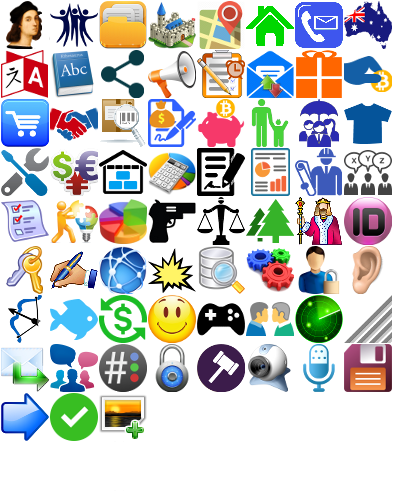
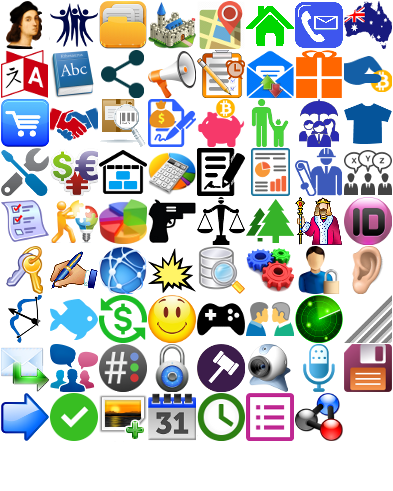
version 0.57 alpha

Changed region(s): [[0.3664, 0.7943, 0.8855, 0.9165]]

diff --git a/pandora.rb b/pandora.rb
@@ -10612,13 +10612,19 @@ module PandoraGtk
     end
   end
 
-  def self.set_button_text(btn, text)
+  def self.set_button_text(btn, text=nil)
     alig = btn.children[0]
     if alig.is_a? Gtk::Bin
       hbox = alig.child
       if (hbox.is_a? Gtk::Box) and (hbox.children.size>1)
         lab = hbox.children[1]
-        lab.text = text if lab.is_a? Gtk::Label
+        if lab.is_a? Gtk::Label
+          if text.nil?
+            lab.destroy
+          else
+            lab.text = text
+          end
+        end
       end
     end
   end
@@ -10814,12 +10820,31 @@ module PandoraGtk
   class BtnEntry < Gtk::HBox
     attr_accessor :entry, :button, :close_on_enter
 
-    def initialize(entry_class, popup=true, *args)
+    def initialize(entry_class, stock=nil, tooltip=nil, *args)
       super(*args)
       @close_on_enter = true
       @entry = entry_class.new
+      stock ||= :list
 
-      @button = Gtk::Button.new('...')
+      $window.register_stock(stock)
+      @button = Gtk::Button.new(stock)
+      PandoraGtk.set_button_text(@button)
+
+      #@button = GoodButton.new(stock, nil, nil) do
+      #  do_on_click
+      #end
+
+      #@button = Gtk::ToolButton.new(:date)
+      #buf = $window.get_icon_scale_buf(stock.to_s, 'pan', 15)
+      #aimage = Gtk::Image.new(buf)
+      #@button = Gtk::ToolButton.new(aimage, nil)
+
+      tooltip ||= stock.to_s.capitalize
+      @button.tooltip_text = _(tooltip)
+      @button.signal_connect('clicked') do |*args|
+        do_on_click
+      end
+
       @button.can_focus = false
 
       @entry.instance_variable_set('@button', @button)
@@ -10838,73 +10863,72 @@ module PandoraGtk
       esize = entry.size_request
       h = esize[1]-2
       @button.set_size_request(h, h)
+    end
 
-      if popup
-        button.signal_connect('clicked') do |*args|
-          @entry.grab_focus
-          if @popwin and (not @popwin.destroyed?)
-            @popwin.destroy
-            @popwin = nil
-          else
-            @popwin = Gtk::Window.new #(Gtk::Window::POPUP)
-            popwin = @popwin
-            popwin.transient_for = $window
-            popwin.modal = true
-            popwin.decorated = false
-            popwin.skip_taskbar_hint = true
+    def do_on_click
+      res = false
+      @entry.grab_focus
+      if @popwin and (not @popwin.destroyed?)
+        @popwin.destroy
+        @popwin = nil
+      else
+        @popwin = Gtk::Window.new #(Gtk::Window::POPUP)
+        popwin = @popwin
+        popwin.transient_for = $window
+        popwin.modal = true
+        popwin.decorated = false
+        popwin.skip_taskbar_hint = true
 
-            popwidget = get_popwidget
-            popwin.add(popwidget)
-            popwin.signal_connect('delete_event') { @popwin.destroy; @popwin=nil }
+        popwidget = get_popwidget
+        popwin.add(popwidget)
+        popwin.signal_connect('delete_event') { @popwin.destroy; @popwin=nil }
 
-            popwin.signal_connect('focus-out-event') do |win, event|
-              GLib::Timeout.add(100) do
-                if not popwin.destroyed?
-                  @popwin.destroy
-                  @popwin = nil
-                end
-                false
-              end
-              false
+        popwin.signal_connect('focus-out-event') do |win, event|
+          GLib::Timeout.add(100) do
+            if not popwin.destroyed?
+              @popwin.destroy
+              @popwin = nil
             end
-
-            popwin.signal_connect('key-press-event') do |widget, event|
-              if [Gdk::Keyval::GDK_Return, Gdk::Keyval::GDK_KP_Enter].include?(event.keyval)
-                if @close_on_enter
-                  @popwin.destroy
-                  @popwin = nil
-                end
-                false
-              elsif (event.keyval==Gdk::Keyval::GDK_Escape) or \
-                ([Gdk::Keyval::GDK_w, Gdk::Keyval::GDK_W, 1731, 1763].include?(\
-                event.keyval) and event.state.control_mask?) #w, W, ц, Ц
-              then
-                @popwin.destroy
-                @popwin = nil
-                false
-              elsif ([Gdk::Keyval::GDK_x, Gdk::Keyval::GDK_X, 1758, 1790].include?( \
-                event.keyval) and event.state.mod1_mask?) or ([Gdk::Keyval::GDK_q, \
-                Gdk::Keyval::GDK_Q, 1738, 1770].include?(event.keyval) \
-                and event.state.control_mask?) #q, Q, й, Й
-              then
-                @popwin.destroy
-                @popwin = nil
-                $window.do_menu_act('Quit')
-                false
-              else
-                false
-              end
-            end
-
-            pos = @entry.window.origin
-            all = @entry.allocation.to_a
-            popwin.move(pos[0], pos[1]+all[3]+1)
-
-            popwin.show_all
+            false
           end
           false
         end
+
+        popwin.signal_connect('key-press-event') do |widget, event|
+          if [Gdk::Keyval::GDK_Return, Gdk::Keyval::GDK_KP_Enter].include?(event.keyval)
+            if @close_on_enter
+              @popwin.destroy
+              @popwin = nil
+            end
+            false
+          elsif (event.keyval==Gdk::Keyval::GDK_Escape) or \
+            ([Gdk::Keyval::GDK_w, Gdk::Keyval::GDK_W, 1731, 1763].include?(\
+            event.keyval) and event.state.control_mask?) #w, W, ц, Ц
+          then
+            @popwin.destroy
+            @popwin = nil
+            false
+          elsif ([Gdk::Keyval::GDK_x, Gdk::Keyval::GDK_X, 1758, 1790].include?( \
+            event.keyval) and event.state.mod1_mask?) or ([Gdk::Keyval::GDK_q, \
+            Gdk::Keyval::GDK_Q, 1738, 1770].include?(event.keyval) \
+            and event.state.control_mask?) #q, Q, й, Й
+          then
+            @popwin.destroy
+            @popwin = nil
+            $window.do_menu_act('Quit')
+            false
+          else
+            false
+          end
+        end
+
+        pos = @entry.window.origin
+        all = @entry.allocation.to_a
+        popwin.move(pos[0], pos[1]+all[3]+1)
+
+        popwin.show_all
       end
+      res
     end
 
     def get_popwidget   # Example widget
@@ -11211,12 +11235,11 @@ module PandoraGtk
     attr_accessor :cal
 
     def initialize(*args)
-      super(MaskEntry, true, *args)
+      super(MaskEntry, :date, 'Date', *args)
       @close_on_enter = false
       @entry.mask = '0123456789.'
       @entry.max_length = 10
       @entry.tooltip_text = 'DD.MM.YYYY'
-      @button.label = 'D'
     end
 
     def update_mark(month, year, time_now=nil)
@@ -11323,11 +11346,10 @@ module PandoraGtk
     attr_accessor :hh_spin, :mm_spin, :ss_spin
 
     def initialize(*args)
-      super(MaskEntry, true, *args)
+      super(MaskEntry, :time, 'Time', *args)
       @entry.mask = '0123456789:'
       @entry.max_length = 8
       @entry.tooltip_text = 'hh:mm:ss'
-      @button.label = 'T'
     end
 
     def get_time(update_spin=nil)
@@ -11445,13 +11467,12 @@ module PandoraGtk
   class ByteListEntry < BtnEntry
 
     def initialize(code_name_list, *args)
-      super(MaskEntry, true, *args)
+      super(MaskEntry, :list, 'List', *args)
       @close_on_enter = false
       @code_name_list = code_name_list
       @entry.mask = '0123456789'
       @entry.max_length = 3
       @entry.tooltip_text = 'NNN'
-      @button.label = 'L'
     end
 
     def get_popwidget
@@ -11553,53 +11574,53 @@ module PandoraGtk
     attr_accessor :types, :panclasses
 
     def initialize(panhash_type, *args)
-      super(HexEntry, false, *args)
+      super(HexEntry, :panhash, 'Panhash', *args)
       @types = panhash_type
+    end
 
-      @button.signal_connect('clicked') do |*args|
-        @entry.grab_focus
-        set_classes
-        dialog = PandoraGtk::AdvancedDialog.new(_('Choose object'))
-        dialog.skip_taskbar_hint = true
-        dialog.set_default_size(600, 400)
-        auto_create = true
-        panclasses.each_with_index do |panclass, i|
-          title = _(PandoraUtils.get_name_or_names(panclass.name, true))
-          dialog.main_sw.destroy if i==0
-          image = Gtk::Image.new(Gtk::Stock::INDEX, Gtk::IconSize::MENU)
-          image.set_padding(2, 0)
-          label_box2 = TabLabelBox.new(image, title, nil, false, 0)
-          pbox = PandoraGtk::PanobjScrolledWindow.new
-          page = dialog.notebook.append_page(pbox, label_box2)
-          auto_create = PandoraGtk.show_panobject_list(panclass, nil, pbox, auto_create)
-          if panclasses.size>MaxPanhashTabs
-            break
-          end
+    def do_on_click
+      @entry.grab_focus
+      set_classes
+      dialog = PandoraGtk::AdvancedDialog.new(_('Choose object'))
+      dialog.skip_taskbar_hint = true
+      dialog.set_default_size(600, 400)
+      auto_create = true
+      panclasses.each_with_index do |panclass, i|
+        title = _(PandoraUtils.get_name_or_names(panclass.name, true))
+        dialog.main_sw.destroy if i==0
+        image = Gtk::Image.new(Gtk::Stock::INDEX, Gtk::IconSize::MENU)
+        image.set_padding(2, 0)
+        label_box2 = TabLabelBox.new(image, title, nil, false, 0)
+        pbox = PandoraGtk::PanobjScrolledWindow.new
+        page = dialog.notebook.append_page(pbox, label_box2)
+        auto_create = PandoraGtk.show_panobject_list(panclass, nil, pbox, auto_create)
+        if panclasses.size>MaxPanhashTabs
+          break
         end
-        dialog.notebook.page = 0
-        dialog.run2 do
-          panhash = nil
-          pbox = dialog.notebook.get_nth_page(dialog.notebook.page)
-          treeview = pbox.treeview
-          if treeview.is_a? SubjTreeView
-            path, column = treeview.cursor
-            panobject = treeview.panobject
-            if path and panobject
-              store = treeview.model
-              iter = store.get_iter(path)
-              id = iter[0]
-              sel = panobject.select('id='+id.to_s, false, 'panhash')
-              panhash = sel[0][0] if sel and (sel.size>0)
-            end
-          end
-          if PandoraUtils.panhash_nil?(panhash)
-            @entry.text = ''
-          else
-            @entry.text = PandoraUtils.bytes_to_hex(panhash) if (panhash.is_a? String)
-          end
-        end
-        true
       end
+      dialog.notebook.page = 0
+      dialog.run2 do
+        panhash = nil
+        pbox = dialog.notebook.get_nth_page(dialog.notebook.page)
+        treeview = pbox.treeview
+        if treeview.is_a? SubjTreeView
+          path, column = treeview.cursor
+          panobject = treeview.panobject
+          if path and panobject
+            store = treeview.model
+            iter = store.get_iter(path)
+            id = iter[0]
+            sel = panobject.select('id='+id.to_s, false, 'panhash')
+            panhash = sel[0][0] if sel and (sel.size>0)
+          end
+        end
+        if PandoraUtils.panhash_nil?(panhash)
+          @entry.text = ''
+        else
+          @entry.text = PandoraUtils.bytes_to_hex(panhash) if (panhash.is_a? String)
+        end
+      end
+      true
     end
 
     # Define allowed pandora object classes
@@ -11751,37 +11772,36 @@ module PandoraGtk
     attr_accessor :window
 
     def initialize(parent, *args)
-      super(Gtk::Entry, false, *args)
-
+      super(Gtk::Entry, Gtk::Stock::OPEN, 'File', *args)
       @window = parent
-      @button.signal_connect('clicked') do |*args|
-        @entry.grab_focus
-        fn = PandoraUtils.absolute_path(@entry.text)
+    end
 
-        dialog = GoodFileChooserDialog.new(fn, true, nil, @window)
+    def do_on_click
+      @entry.grab_focus
+      fn = PandoraUtils.absolute_path(@entry.text)
+      dialog = GoodFileChooserDialog.new(fn, true, nil, @window)
 
-        filter = Gtk::FileFilter.new
-        filter.name = _('Pictures')+' (*.png,*.jpg,*.gif)'
-        filter.add_pattern('*.png')
-        filter.add_pattern('*.jpg')
-        filter.add_pattern('*.jpeg')
-        filter.add_pattern('*.gif')
-        dialog.add_filter(filter)
+      filter = Gtk::FileFilter.new
+      filter.name = _('Pictures')+' (*.png,*.jpg,*.gif)'
+      filter.add_pattern('*.png')
+      filter.add_pattern('*.jpg')
+      filter.add_pattern('*.jpeg')
+      filter.add_pattern('*.gif')
+      dialog.add_filter(filter)
 
-        filter = Gtk::FileFilter.new
-        filter.name = _('Sounds')+' (*.mp3,*.wav)'
-        filter.add_pattern('*.mp3')
-        filter.add_pattern('*.wav')
-        dialog.add_filter(filter)
+      filter = Gtk::FileFilter.new
+      filter.name = _('Sounds')+' (*.mp3,*.wav)'
+      filter.add_pattern('*.mp3')
+      filter.add_pattern('*.wav')
+      dialog.add_filter(filter)
 
-        if dialog.run == Gtk::Dialog::RESPONSE_ACCEPT
-          filename0 = @entry.text
-          @entry.text = PandoraUtils.relative_path(dialog.filename)
-          yield(@entry.text, @entry, @button, filename0) if block_given?
-        end
-        dialog.destroy if not dialog.destroyed?
-        true
+      if dialog.run == Gtk::Dialog::RESPONSE_ACCEPT
+        filename0 = @entry.text
+        @entry.text = PandoraUtils.relative_path(dialog.filename)
+        yield(@entry.text, @entry, @button, filename0) if block_given?
       end
+      dialog.destroy if not dialog.destroyed?
+      true
     end
 
     def width_request=(wr)
